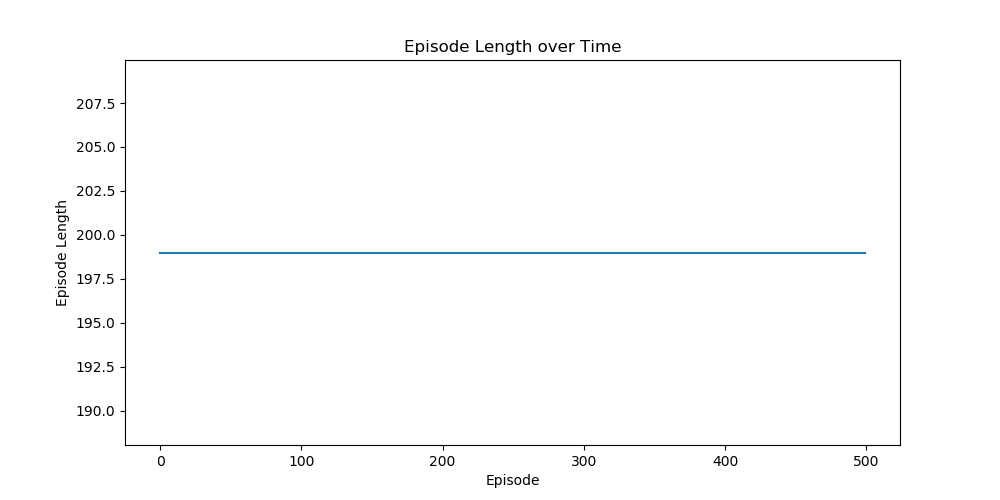
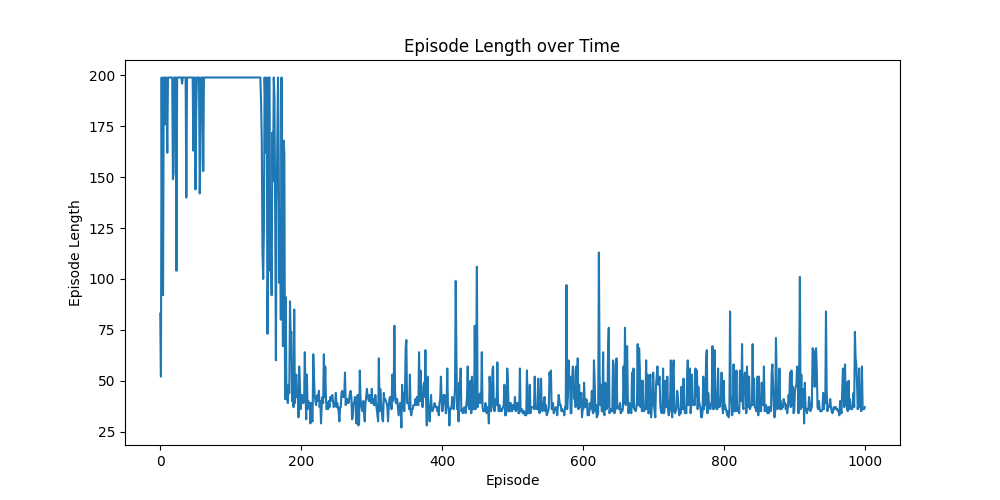
function approximation using neural networks

diff --git a/exercise_07/scripts/sarsa_fa.py b/exercise_07/scripts/sarsa_fa.py
@@ -22,86 +22,76 @@ def tt(ndarray):
   return Variable(torch.from_numpy(ndarray).float(), requires_grad=False)
 
 class Q(nn.Module):
-  def __init__(self, state_dim, action_dim, hidden_dim=50):
-    super(Q, self).__init__()
-    # Implement this
-    self.hidden = nn.Linear(in_features=state_dim, out_features=hidden_dim)
-    #adding relu layer for much needed non-linearity
-    self.relu = nn.ReLU()
-    self.output = nn.Linear(in_features=hidden_dim, out_features=action_dim)
-    # raise NotImplementedError("Architecture of the Q-network is missing.")
+    def __init__(self, state_dim, action_dim, hidden_dim=50):
+        super(Q, self).__init__()
+        # Implement this
+        self.model = nn.Sequential(nn.Linear(in_features=state_dim,
+                                            out_features=hidden_dim),
+                                  nn.ReLU(),
+                                  nn.Linear(in_features=hidden_dim,
+                                            out_features=hidden_dim),
+                                  nn.ReLU(),
+                                  nn.Linear(in_features=hidden_dim,
+                                            out_features=action_dim)
+                                  )
+        # raise NotImplementedError("Architecture of the Q-network is missing.")
 
-  def forward(self, x):
-    # Implement this
-    x = self.hidden(x)
-    x = self.relu(x)
-    x = self.output(x)
-
-    # raise NotImplementedError("Forward pass of the Q-network is missing.")
-    return x
+    def forward(self, x):
+        # Implement this
+        action_probs = self.model(x)
+        return action_probs
+        # raise NotImplementedError("Forward pass of the Q-network is missing.")
 
 class SARSA:
-  def __init__(self, state_dim, action_dim, gamma):
-    self._q = Q(state_dim, action_dim)
-    # Untoggle this if you have CUDA supported GPU
-    # self._q.cuda()
-    self._gamma = gamma
-    self._loss_function = nn.MSELoss()
-    self._q_optimizer = optim.Adam(self._q.parameters(), lr=0.0005)
-    self._action_dim = action_dim
+    def __init__(self, state_dim, action_dim, gamma):
+        self._q = Q(state_dim, action_dim)
+        # Untoggle this if you have CUDA supported GPU
+        # self._q.cuda()
+        self._gamma = gamma
+        self._loss_function = nn.MSELoss()
+        self._q_optimizer = optim.Adam(self._q.parameters(), lr=0.0005)
+        self._action_dim = action_dim
 
-  def get_action(self, x, epsilon):
-    """
-    Epsilon-greedy policy
-    """
-    u = np.argmax(self._q(tt(x)).cpu().detach().numpy())
-    r = np.random.uniform()
-    if r < epsilon:
-      return np.random.randint(self._action_dim)
-    return u
+    def get_action(self, x, epsilon):
+        """
+        Epsilon-greedy policy
+        """
+        u = np.argmax(self._q(tt(x)).cpu().detach().numpy())
+        r = np.random.uniform()
+        if r < epsilon:
+          return np.random.randint(self._action_dim)
+        return u
 
-  def train(self, episodes, time_steps, epsilon):
-
-    stats = EpisodeStats(episode_lengths=np.zeros(episodes), episode_rewards=np.zeros(episodes))
-
-    for e in range(episodes):
-      print("%s/%s"%(e+1, episodes))
-      s = env.reset()
-      curr_action = sarsa.get_action(s, epsilon)
-      for t in range(time_steps):
-        ns, r, d, _ = env.step(curr_action)
-
-        stats.episode_rewards[e] += r
-        stats.episode_lengths[e] = t
-
-        # Implement this
-        # q_esti = self._q(tt(s).cpu().detach().numpy())
-        q_esti = self._q(tt(s))
-        q_target = q_esti.clone()
-
+    def update_weights(self, input, target):
         self._q_optimizer.zero_grad()
-
-        if (d):
-            q_target[curr_action] = r
-            loss_q_val = self._loss_function(q_esti, q_target)
-            loss_q_val.backward()
-            self._q_optimizer.step()
-            break
-
-        # get the Q values for next state: ns
-        q_estim_next = self._q(tt(ns))
-        next_action = self.get_action(ns, epsilon)
-        q_target[curr_action] = r + self._gamma * q_estim_next[next_action]
-
-        loss_q_val = self._loss_function(q_esti, q_target)
-        loss_q_val.backward()
+        output = self._loss_function(input, target)
+        output.backward()
         self._q_optimizer.step()
 
-        s = ns
-        a = next_action
-        # raise NotImplementedError("SARSA implementation is missing")
+    def train(self, episodes, time_steps, epsilon):
+        stats = EpisodeStats(episode_lengths=np.zeros(episodes), episode_rewards=np.zeros(episodes))
+        for e in range(episodes):
+            # print(f"episode: {e} of {episodes}")
+            s = env.reset()
+            a = self.get_action(s, epsilon)
+            for t in range(time_steps):
+                ns, r, d, _ = env.step(a)
 
-    return stats
+                stats.episode_rewards[e] += r
+                stats.episode_lengths[e] = t
+                # Implement this
+                current = self._q(tt(s))[a]
+                next_action = self.get_action(ns, epsilon)
+                target = r + (1-d)*self._gamma*self._q(tt(ns))[next_action]
+                self.update_weights(input=current, target=target.detach())
+
+                if d:
+                    break
+
+                s = ns
+                a = next_action
+            print(f"episode: {e}, reward: {stats.episode_rewards[e]} len: {stats.episode_lengths[e]}")
+        return stats
 
 def plot_episode_stats(stats, smoothing_window=10, noshow=False):
   # Plot the episode length over time
@@ -130,24 +120,24 @@ def plot_episode_stats(stats, smoothing_window=10, noshow=False):
       plt.show(fig2)
 
 if __name__ == "__main__":
-  env = MountainCarEnv()
-  state_dim = env.observation_space.shape[0]
-  action_dim = env.action_space.n
-  sarsa = SARSA(state_dim, action_dim, gamma=0.99)
+    env = MountainCarEnv()
+    state_dim = env.observation_space.shape[0]
+    action_dim = env.action_space.n
+    sarsa = SARSA(state_dim, action_dim, gamma=0.99)
 
-  episodes = 1000
-  time_steps = 200
-  epsilon = 0.2
+    episodes = 1000
+    time_steps = 200
+    epsilon = 0.2
 
-  stats = sarsa.train(episodes, time_steps, epsilon)
+    stats = sarsa.train(episodes, time_steps, epsilon)
 
-  plot_episode_stats(stats)
+    plot_episode_stats(stats)
 
-  for _ in range(5):
-    s = env.reset()
-    for _ in range(200):
-      env.render()
-      a = sarsa.get_action(s, epsilon)
-      s, _, d, _ = env.step(a)
-      if d:
-        break
+    for _ in range(5):
+        s = env.reset()
+        for _ in range(200):
+            env.render()
+            a = sarsa.get_action(s, epsilon)
+            s, _, d, _ = env.step(a)
+            if d:
+                break
